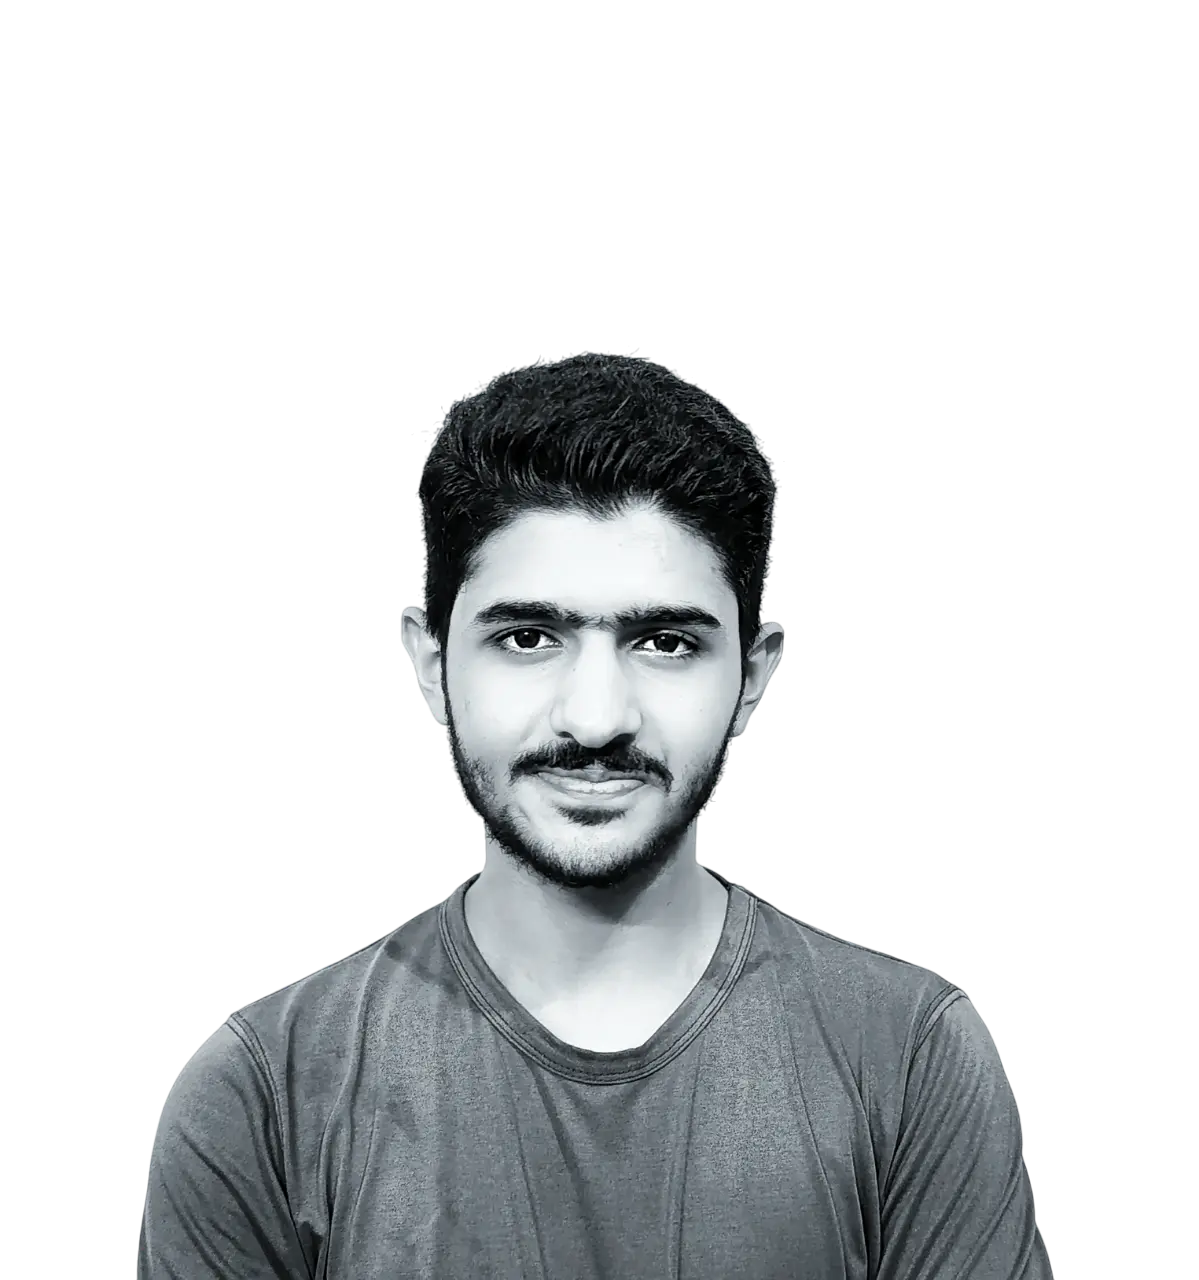
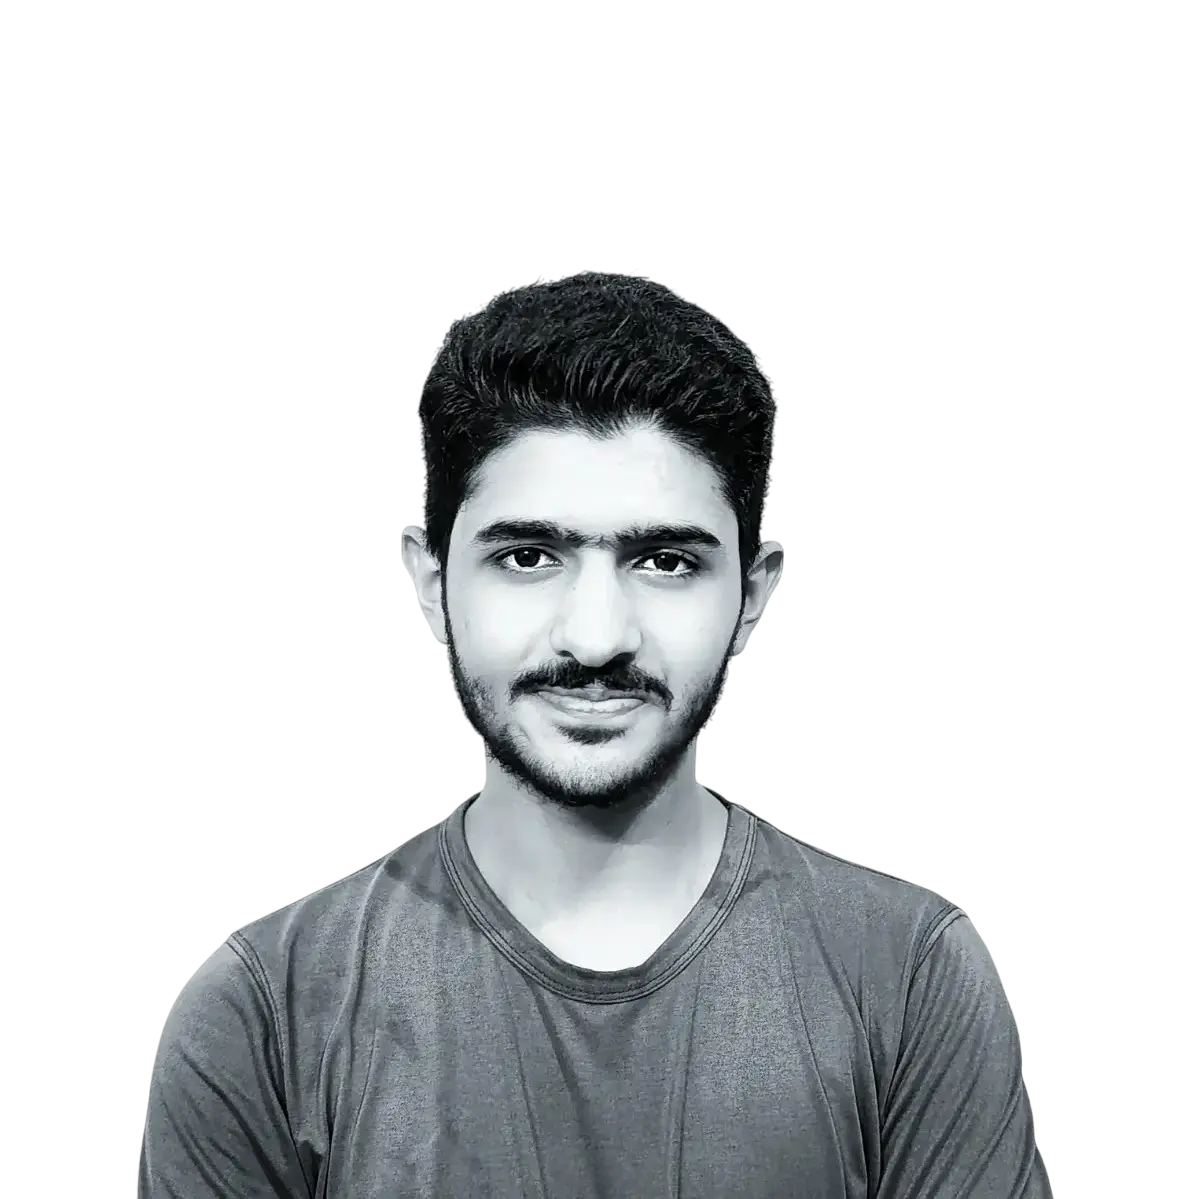
Refactor code structure for improved readability and maintainability

Changed region(s): [[0.1234, 0.216, 0.8641, 0.9566]]

diff --git a/src/components/about.tsx b/src/components/about.tsx
@@ -9,28 +9,27 @@ import Link from "next/link";
 
 export function About() {
   return (
-    <section id="about" className="py-24 relative bg-black px-6 sm:px-20">
-      <div className="hidden md:flex absolute z-0 top-0 bottom-10 left-1/2 right-0 bg-[radial-gradient(circle_at_50%_50%,rgba(1,182,212,0.7),transparent_50%)]"></div>
-      <div className="z-20 lg:h-[80vh] max-w-7xl flex items-center justify-center mx-auto">
+    <section id="about" className="relative bg-black px-6 sm:px-10">
+      <div className="z-20 lg:h-[80vh] max-w-7xl flex items-center border-x justify-center px-10 mx-auto">
         <motion.div
           initial={{ opacity: 0, y: 20 }}
           whileInView={{ opacity: 1, y: 0 }}
           viewport={{ once: true }}
           transition={{ duration: 0.6 }}
-          className="grid grid-cols-1 lg:grid-cols-2 gap-16 items-center"
+          className="grid grid-cols-1 lg:grid-cols-2 gap-16 items-start"
         >
           {/* Content */}
           <div className="flex flex-col items-center lg:items-start gap-5">
             <div className="space-y-8">
-              <Badge variant="outline" className="text-base w-fit">
+              <Badge variant="outline" className="w-fit text-base font-thin border-t-gray-300 border-x-gray-400 border-b-gray-600">
                 About Me
               </Badge>
             </div>
             <div className="space-y-6">
               <AnimatedHeadline
                 text="I'm Abdurrehman, a full stack-web developer, who design and develop custom web solutions. I don't only create websites, I turn your physical presence into digital presence, I create an emotional and an everlasting connection between you and your clients, this is what I've been doing it for 4 years. So what are you waiting for?"
-                as="p"
-                className="text-xl md:text-3xl font-medium text-center lg:text-justify"
+                as="h3"
+                className="text-xl md:text-4xl font-medium text-center lg:text-justify"
               />
             </div>
             <motion.div
@@ -54,18 +53,22 @@ export function About() {
             whileInView={{ opacity: 1, scale: 1 }}
             viewport={{ once: true }}
             transition={{ duration: 0.6, delay: 0.2 }}
-            className="relative hidden md:block"
+            className="relative"
           >
-            <div className="relative  h-[500px] overflow-hidden">
+            <div className="flex absolute z-0 top-0 bottom-10 right-0 bg-[radial-gradient(circle_at_50%_50%,rgba(1,182,212,0.7),transparent_50%)]"></div>
+
+            <div className="absolute left-0 right-0 bottom-0 w-full h-[15vh] sm:h-[18vh] md:h-[20vh] bg-gradient-to-t from-black via-black/10 to-transparent z-30" />
+            <div className="relative  h-[460px] overflow-hidden">
               <Image
-                src="/My-talk.webp"
+                src="/bg-remove3.webp"
                 alt="Developer portrait"
                 fill
-                className="object-cover grayscale hidden md:flex"
+                className="object-cover aspect-square grayscale flex select-none"
                 sizes="(max-width: 768px) 100vw, 50vw"
                 priority
               />
-              <Image src="/gradientoverlay.png" alt="gradientoverlay" className="z-30 grayscale-100 absolute bottom-0 w-full h-20" width={100} height={10} />
+
+              {/* <Image src="/gradientoverlay.webp" alt="gradientoverlay" className="z-30 grayscale-100 absolute bottom-0 w-full h-auto" width={100} height={10} /> */}
             </div>
           </motion.div>
         </motion.div>

diff --git a/src/components/boltedTextSection.tsx b/src/components/boltedTextSection.tsx
@@ -10,13 +10,13 @@ gsap.registerPlugin(ScrollTrigger);
 export default function PitchingTagline() {
 
   return (
-    <section className="relative h-[60vh] lg:h-[70vh] bg-black overflow-hidden">
-      <div className="relative z-10 flex flex-col items-center justify-center lg:items-start text-white lg:justify-center h-full px-4">
+    <section className="relative h-[60vh] lg:h-[50vh] bg-black overflow-hidden">
+      <div className="relative z-10 flex flex-col items-center justify-center border-y text-white lg:justify-center h-full px-4">
         <div className="max-w-3xl mx-auto">
           <AnimatedHeadline
-            text="People are making $ from a single website, and the best part is you can also do that"
+            text="People are making $$$ from a single website, and the best part is you can also do that"
             as="h2"
-            className="text-3xl font- font-semibold md:text-6xl lg:text-6xl text-center lg:font-bold leading-tight"
+            className="text-3xl md:text-6xl lg:text-7xl text-center font-medium leading-tight"
           />
         </div>
       </div>

diff --git a/src/components/work.tsx b/src/components/work.tsx
@@ -15,13 +15,13 @@ export function Work() {
     <section id="work" className="bg-black text-white px-6">
       <div className="max-w-5xl py-20  mx-auto">
         <div className="flex flex-col items-center justify-center mb-16">
-          <Badge variant="outline" className="text-base mb-4">
+          <Badge variant="outline" className="mb-4 text-base font-thin border-t-gray-300 border-x-gray-400 border-b-gray-600">
             Portfolio
           </Badge>
-          <h2 className="text-4xl md:text-5xl font-bold mb-2">
+          <h2 className="text-4xl md:text-5xl font-medium mb-2">
             Featured Projects
           </h2>
-          <p className="text-muted-foreground font-poppins max-w-xl">
+          <p className="text-muted-foreground font-light font-poppins max-w-xl">
             Real-world solutions crafted with precision, built for performance.
           </p>
         </div>

diff --git a/src/app/layout.tsx b/src/app/layout.tsx
@@ -1,6 +1,6 @@
 import './globals.css';
 import type { Metadata } from 'next';
-import { Inter, Big_Shoulders_Display, Poppins, Bebas_Neue } from 'next/font/google';
+import {Poppins, Bebas_Neue } from 'next/font/google';
 import { ThemeProvider } from '@/components/theme-provider';
 
 
@@ -10,20 +10,6 @@ export const poppins = Poppins({
   variable: '--font-poppins',
   display: 'swap',
 });
-
-// export const inter = Inter({
-//   subsets: ['latin'],
-//   weight: ['400', '500', '600', '700'],
-//   variable: '--font-inter',
-//   display: 'swap',
-// });
-
-// export const bigShoulders = Big_Shoulders_Display({
-//   subsets: ['latin'],
-//   weight: ['400', '500', '600', '700'],
-//   variable: '--font-bigShoulders',
-//   display: 'swap',
-// });
 
 export const BebasNeue = Bebas_Neue({
   subsets: ['latin'],

diff --git a/src/app/globals.css b/src/app/globals.css
@@ -12,7 +12,6 @@
   --font-inter: 'Inter', sans-serif;
   --font-poppins: 'Poppins', sans-serif;
   --font-bebas-neue: 'Bebas Neue', sans-serif;
-  /* --font-bigshoulders: 'Big Shoulders Display', sans-serif; */
 }
 
 .bebas-neue-regular {
@@ -29,6 +28,16 @@
     --background-end-rgb: 0, 0, 0;
   }
 }
+
+h1, h1 > * span, h2, h2 > * span, h3, h3 > * span, h4, h4 > * span, h5, h5 > * span, h6, h6 > * span, span > h1, span > h2, span > h3, span > h4, span > h5, span > h6{
+  font-family: var(--font-bebas-neue);
+}
+
+p, div, span, a, li, td, th, nav, button, input, label {
+  font-family: var(--font-poppins);
+}
+
+
 
 @layer base {
   :root {
@@ -113,7 +122,7 @@
 
 /* Custom scrollbar */
 ::-webkit-scrollbar {
-  width: 8px;
+  width: 7px;
 }
 
 ::-webkit-scrollbar-track {

diff --git a/src/components/ui/badge.tsx b/src/components/ui/badge.tsx
@@ -14,7 +14,7 @@ const badgeVariants = cva(
           'border-transparent bg-secondary text-secondary-foreground hover:bg-secondary/80',
         destructive:
           'border-transparent bg-destructive text-destructive-foreground hover:bg-destructive/80',
-        outline: 'text-foreground',
+        outline: 'text-foreground transition-all duration-300',
       },
     },
     defaultVariants: {

diff --git a/src/components/hero.tsx b/src/components/hero.tsx
@@ -63,7 +63,7 @@ export default function Hero() {
         
         {/* Background pattern */}
         <Image 
-          src={"/dot-lines.png"} 
+          src={"/dot-lines.webp"}
           alt="Dotted lines background" 
           width={100} 
           height={100} 
